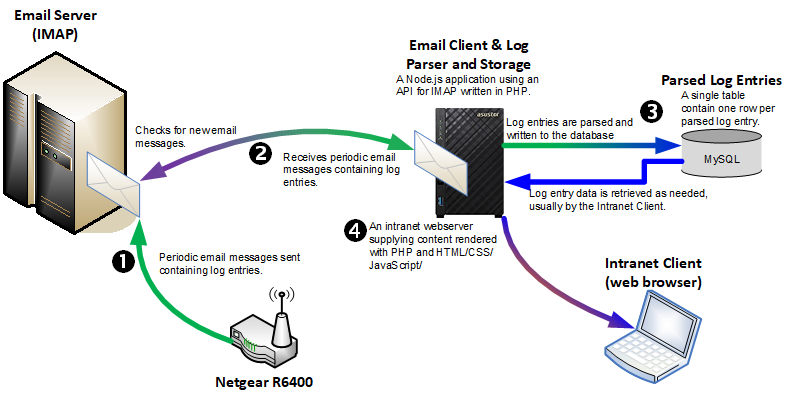
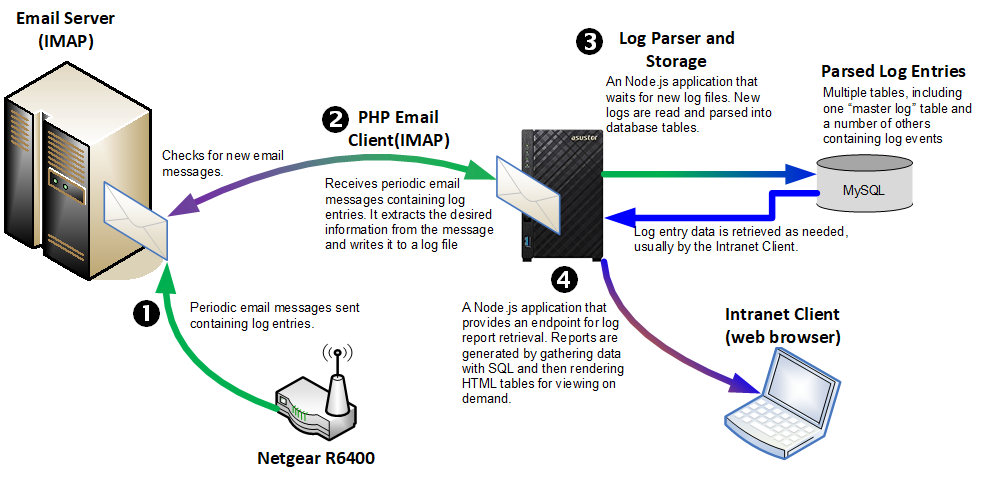
README update

Changed region(s): [[0.0, 0.06, 1.0, 0.99], [0.0, 0.03, 0.1214, 0.15], [0.0303, 0.15, 0.0607, 0.18]]

diff --git a/README.md b/README.md
@@ -6,218 +6,38 @@ This project is a work in progress. Please be patient.
 
 The purpose of this project is to aid in the monitoring of logs generated by a Netgear R6400 router. I have configured it to email a log every day at midnight.
 
-Every once in a while I would find evidence of an unauthorized access to the WiFi access point, or some other suspect activity. And not having time to look through logs every day I decided to automate the process.
-
-There are two separate applications in this project. The first is written in PHP and its purpose is to download the log email messages and write their content to a log file. The second part is a Node.js application that watches and waits for new log files to be created. When one or more is detected this application will read the log file, parse it, and write the results to a database.
-
-## Advantages
-
-With all of the log entries parsed and saved in a database I will be able to get a much better view into what's been going on. And it will be much easier to detect and identify problems, and remedy them. Once I'm able to detect them I can even create notifications such as SMS or email. 
+Every once in a while I would find evidence of an unauthorized access to the WiFi access point, or some other suspect activity. And not having time to look through logs every day I decided to automate the process. 
 
 ## Overview
 
-The primary components are:
+The primary components in this project are:
 
 * A Netgear R6400 router configured to email its logs. I've set mine up to email the log daily at midnight.
-* An email server, must be capable of IMAP.
-* A LAMP stack server **located on your local network**. I'm using a NAS as my server. Something smaller like a Raspberry Pi B+ >=3 should also work.
+* An email server, must be capable of IMAP and reachable by the router.
+* A LAMP stack server ***with Node.js(>v12)*** **and located on your local network**. I'm using a NAS as my server. Something smaller like a Raspberry Pi B+ >=3 should also work.
 * A web browser capable client on your local network.
 
 <p align="center">
   <img src="./mdimg/netgear-log-tool-overview.png" alt="" txt="" width="80%">
 </p>
 
-### Features
-
-* Configurable:
-  * IMAP server settings
-  * "Bad" log entry filtering
-  * Verbosity of the run-time log (*configured in-module*)
-  * Maximum size of a run-time log, location, and file extension
-  * **TBD**
-
-This utility consists of 2 primary pieces:
-
-* Log Collector - a PHP program that opens the IMAP connection to a specified folder, it finds all messages marked as "unread". It reads the messages and writes the contents to a text file. It also marks the read messages as "seen".
-* Log Watcher - it "watches" a folder for new files. As Log Collector creates a file this will then open, read, and parse the entries for writing to a database.
-  * This part also has the ability to just read files without waiting for them to be created. This is useful when there are a large quantity of files to process. 
-
-## PHP vs. Node.js
-
-<p align="center">
-  <img src="./mdimg/scale-php_v_node.png" width="25%" height="25%" alt="Index Page" txt="PHP v Node" />
-</p>
-
-When I started the initial design of this project I investigated handling all of the IMAP interactions with JavaScript and Node.js. 
-
-I did a lot of research on IMAP and the availability of libraries in NPMs or PHP. What I found kind of surprised me a bit. I *expected* that Node.js would have some up to date, and active NPMs available for use. But that's not what I found. 
-
-* Some were unmaintained, it has been years since an issue was closed or code was updated.
-* Some were just impractical. Like the self-hosted API and a library to interact with it.
-* Some had a large code footprint, and were over complicated for basic use.
-
-Please note that I am a *fan* of Node.js. I like it, I like coding for Node.js. And there are a lot of *good* NPM packages for it. But... sometimes a Node.js application is just too "fat" when compared to what it *actually does*. For example, one of the "proof of concept" applications I put together ended up using around 4 meg of space and it was only about a dozen lines of active code. Where? in the `node_modules` folder of course!
-
-So I switched over to PHP and in a couple of hours I had something *working*. I can open the connection to the server, download headers, and download the header and message body, process the body and save it! And it *only* used about 10 **kilobytes** of code space. No extra libraries, no fluff, no unused deeply hidden stuff in `node_modules` either!
-
-And in 99% of PHP installations the proper IMAP module is already there. And there's also better *compatibility* across versions of PHP. The same code I write when developing and testing under 5.6 will also work without modification under PHP 7.2.
-
-So for this particular application PHP makes more sense than JavaScript on Node.js. Well, at least for *part* of it. There is a Node.js side to this project. Its purpose will be to finish the processing and parsing of the files that were saved by the PHP side. It will also write the parsed data to a MySQL database and generate static report content each time it finishes processing a file.
-
-# Application Architecture Overview 
-
-## Log Collector
-
-<p align="center">
-  <img src="./mdimg/log-collector-arch.png" alt="Index Page" txt="PHP v Node"  width="80%" height="80%"/>
-</p>
-
-### Design
-
-## Log Watcher-Processor
-
-<p align="center">
-  <img src="./mdimg/log-watcher-arch.png" alt="Index Page" txt="PHP v Node"  width="80%" height="80%"/>
-</p>
-
-### Design
 
 
-## Database Schemas
 
-### Log Record Types
 
-* DHCP IP
-* Dynamic DNS
-* LAN access from remote
-* Internet connected
-* Internet disconnected
-* Time synchronized with NTP server
-* DoS attack
-* WLAN access rejected
-* Initialized, firmware version
-* Admin login
-* UPnP Event
+There are three separate applications in this project. The first is written in PHP and its purpose is to download the log email messages and write their content to a log file. The second part is a Node.js application that watches and waits for new log files to be created. When one or more is detected this application will read the log file, parse it, and write the results to a database across multiple tables. The third part is the report generator application. It reads the data previously processed by the log watcher and provides an endpoint for retrieving various reports.
 
-### Data Relationships
+* Log Collector (`logcollector`): PHP log email message retrieval
+* Log Watcher (`logwatcher`): Node.js application, parses and writes log entries to one of several tables
+* Log Reporter (`logreporter`): Node.js application, creates human-readable tabular reports
 
-* Router Actions - 
-  * Dynamic DNS
-  * Internet connected
-  * Internet disconnected
-  * Time synchronized with NTP server
-  * Admin login
+## Advantages
 
-* Router Invasion - 
-  * DoS attack
-  * WLAN access rejected
+After all of the log entries have been parsed and saved in a database I've been able to get a much better view into what's been going on. Running SQL queries on that data has allowed me to try out various reports(data only) and 
+**********************
+And it will be much easier to detect and identify problems, and remedy them. Once I'm able to detect them I can even create notifications such as SMS or email. 
 
-* Router LAN Activity - 
-  * DHCP IP
 
-* Router Updates - 
-  * Initialized, firmware version 
-
-* Network Activity - 
-  * LAN access from remote
-  * UPnP Event
-
-* ***TBD***
-
-From the above it's clear that there are 5 *categories* and 11 *message types*. The following abbreviations will be used for each of the categories:
-
-* Router Actions - **RA**
-* Router Invasion - **RI**
-* Router LAN Activity - **RL**
-* Router Updates - **RU**
-* Network Activity - **NA**
- 
-The following table illustrates the relationships of the message types to the data fields:
-
-| Message Types                     | Category | Date | Time | IP Address | Port | Source IP | Source Port | MAC | Host | Message |
-| --------------------------------- | -------- | ---- | ---- | ---------- | ---- | --------- | ----------- | --- | ---- | ------- |
-| Admin login                       | RA       | X    | X    | X          |      |           |             |     |      |         |
-| DHCP IP                           | RL       | X    | X    | X          |      |           |             | X   |      |         |
-| DoS attack                        | RI       | X    | X    | X          |      |           |             |     |      | X       |
-| Dynamic DNS                       | RA       | X    | X    |            |      |           |             |     | X    | X       |
-| Initialized, firmware version     | RU       | X    | X    |            |      |           |             |     |      | X       |
-| Internet connected                | RA       | X    | X    | X          |      |           |             |     |      |         |
-| Internet disconnected             | RA       | X    | X    |            |      |           |             |     |      |         |
-| LAN access from remote            | NA       | X    | X    | X          | X    | X         | X           |     |      |         |
-| UPnP set event                    | NA       | X    | X    | X          |      |           |             |     |      | X       |
-| Time synchronized with NTP server | RA       | X    | X    |            |      |           |             |     |      |         |
-| WLAN access rejected              | RI       | X    | X    |            |      |           |             | X   |      | X       |
-
-(*The table above was created using: [**Table to Markdown**](https://tabletomarkdown.com)*)
-
-### Database Tables
-
-At this time there are 3 tables used:
-
-Log data is written to these tables:
-
-* logentry - contains all of the log entries except "bad" ones
-* logentry_bad - contains all "bad" entries
-
-For processing log entries, these tables are read in before processing begins:
-
-* actions - used for looking up the log entry description, an "action ID" is associated with each description 
-
-The remaining tables are:
-
-* ipstats - for containing statistics for a specific IP address, one row per IP
-* actioncats - provides a textual description for a category code
-* known - all known IP address on the network, this will be used for filtering log entries
-* ipcats - contains IP category descriptions, and IP ranges for the category. It also contains a flag that indicates if the category and range are in use
-
-**NOTE**: The tables above are not currently used.
-
-## Installation and Set Up
-
-### File Locations
-
-```
-\router-log-monitor 
-    |
-    +---logcollector
-    |
-    +---logoutput
-    |
-    +---logwatcher
-    |   +---mysql
-    |   +---utils
-    |   |
-    |   +---logs
-    |
-    +---sql
-```
-
-* **`router-log-monitor/logcollector`** : all of the PHP source and associated JSON configuration files
-* **`router-log-monitor/logoutput`** : all files converted from log email messages go here
-* **`router-log-monitor/logwatcher`** : all of the JavaScript source and associated configuration files
-  * **`1logwatcher/mysql`** : MySQL functions and configuration files
-  * **`1logwatcher/utils`** : utility functions for this applciation, currently contains only the Log.js file
-  * **`1logwatcher/logs`** : all run-time logs will be written here, Log.js manages the files and rolls over to the next when the current file reaches capacity(*configurable*)
-* **`router-log-monitor/sql`** : SQL files containing various statements for creating tables and seeding data
-
-### Configuration Files
-
-### Email Accounts
-
-### Database Schemas and Tables
-
-#### MySQL Configuration
-
-### CRON
-
-### Testing
-
-### Mailbox Utility
-
-# Future Enhancements
-
-* Auto-generate blacklist reports for external IP addresses that have been problematic. This action will also save blacklisted IPs in their own table. 
-* **TBD**
 
 ---
-<img src="http://webexperiment.info/extcounter/mdcount.php?id=router-log-monitor">
+<img src="http://webexperiment .info/extcounter/mdcount.php?id=router-log-monitor">
